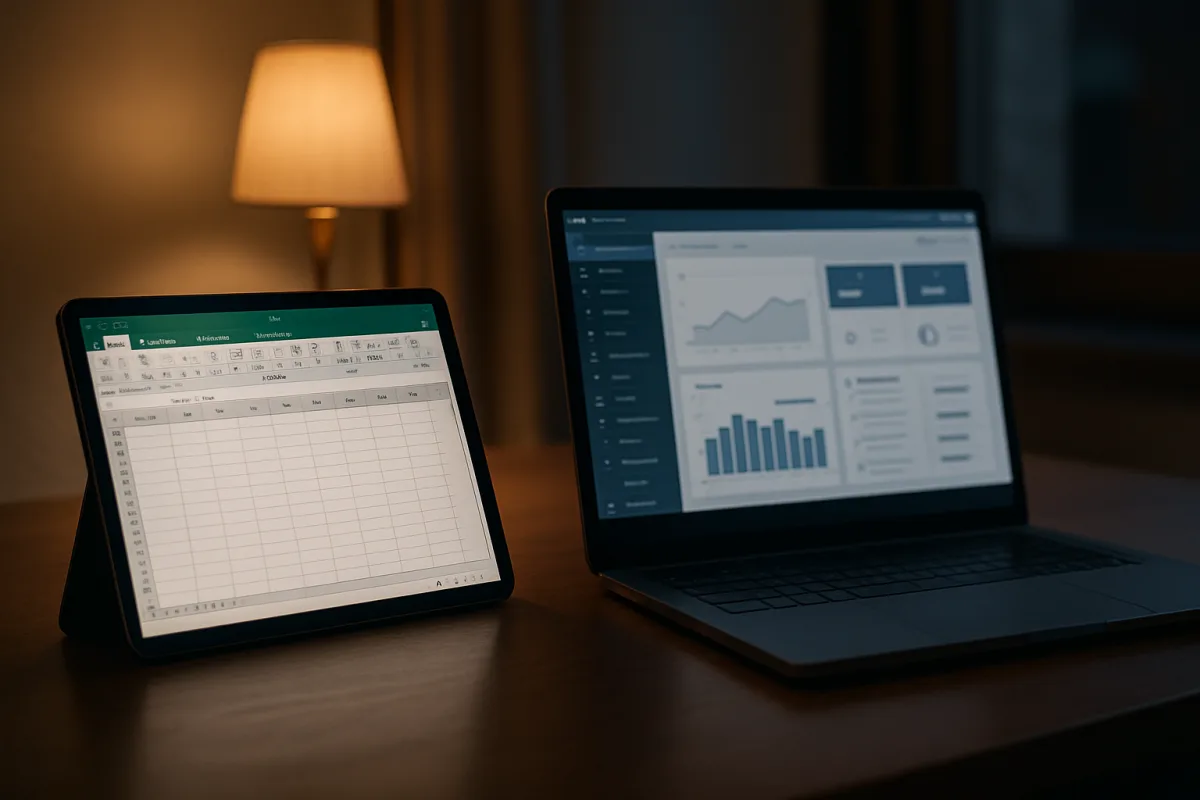
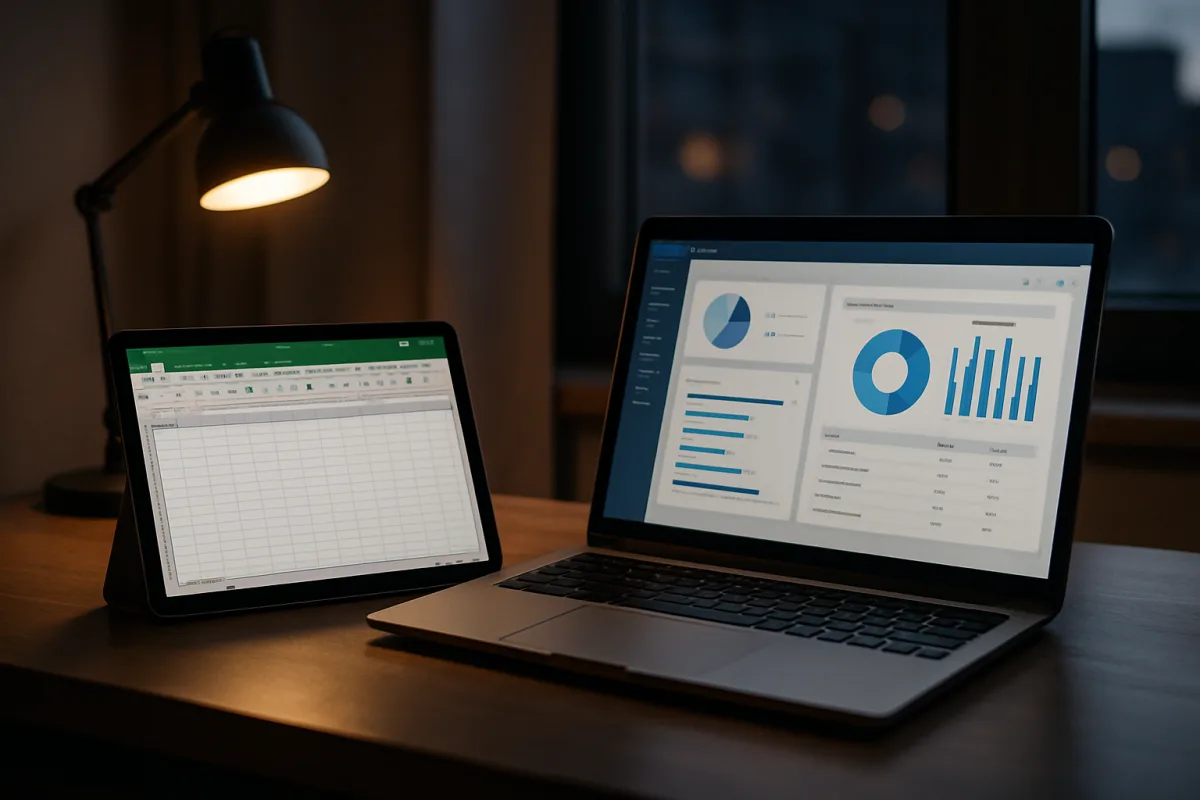
auto-commit for d4906b76-a8ba-492b-9cf0-a4e3382046fd

diff --git a/php-version/includes/header.php b/php-version/includes/header.php
@@ -99,14 +99,45 @@ echo $initialTheme !== '' ? ' data-bs-theme="' . esc($initialTheme) . '"' : '';
 ?>>
 <head>
   <meta charset="UTF-8">
+  <script>
+    /* Performance: defer ALL third-party tracking (GTM, gtag/GA4/Ads, Bing UET,
+       Clarity) until the FIRST user interaction or ~3s after load — whichever
+       comes first. Cuts Total Blocking Time / main-thread work on first paint
+       without losing analytics (real users interact; idle fallback covers the
+       rest). Trackers register a fn via window.__mvTrk.push(fn). */
+    (function(){
+      // Buffering stubs so conversion events (gtag('event','purchase'), uetq.push)
+      // fired before the real tags load are queued and flushed later — gtag is a
+      // dataLayer pusher and UET reads the pre-existing uetq array, so nothing is lost.
+      window.dataLayer = window.dataLayer || [];
+      window.gtag = window.gtag || function(){ window.dataLayer.push(arguments); };
+      window.uetq = window.uetq || [];
+
+      window.__mvTrk = window.__mvTrk || [];
+      var fired = false;
+      var evts = ['scroll','mousemove','mousedown','touchstart','keydown','pointerdown'];
+      function cleanup(){ evts.forEach(function(e){ window.removeEventListener(e, run, true); }); }
+      function run(){
+        if (fired) return; fired = true; cleanup();
+        var q = window.__mvTrk;
+        window.__mvTrk = { push: function(fn){ try { fn(); } catch(e){} } };
+        for (var i=0;i<q.length;i++){ try { q[i](); } catch(e){} }
+      }
+      evts.forEach(function(e){ window.addEventListener(e, run, {passive:true, capture:true}); });
+      window.addEventListener('load', function(){ setTimeout(run, 3000); });
+      window.__mvLoadTrackers = run;
+    })();
+  </script>
   <?php $gtmId = trim((string)setting_get('gtm_container_id', defined('GTM_CONTAINER_ID') ? GTM_CONTAINER_ID : '')); ?>
   <?php if ($gtmId !== ''): ?>
-  <!-- Google Tag Manager -->
-  <script>(function(w,d,s,l,i){w[l]=w[l]||[];w[l].push({'gtm.start':
+  <!-- Google Tag Manager (deferred until first interaction / idle) -->
+  <script>window.__mvTrk.push(function(){
+  (function(w,d,s,l,i){w[l]=w[l]||[];w[l].push({'gtm.start':
   new Date().getTime(),event:'gtm.js'});var f=d.getElementsByTagName(s)[0],
   j=d.createElement(s),dl=l!='dataLayer'?'&l='+l:'';j.async=true;j.src=
   'https://www.googletagmanager.com/gtm.js?id='+i+dl;f.parentNode.insertBefore(j,f);
-  })(window,document,'script','dataLayer','<?= esc($gtmId) ?>');</script>
+  })(window,document,'script','dataLayer','<?= esc($gtmId) ?>');
+  });</script>
   <!-- End Google Tag Manager -->
   <?php endif; ?>
   <script>
@@ -580,34 +611,37 @@ echo $initialTheme !== '' ? ' data-bs-theme="' . esc($initialTheme) . '"' : '';
       // multi-destination pattern.  Priority: Google tag → GA4 → Ads.
       $primaryGtagId = $tk_gtag !== '' ? $tk_gtag : ($tk_ga4 !== '' ? $tk_ga4 : $tk_gAds);
   ?>
-  <!-- Google tag (gtag.js) — covers Google tag (GT-) + GA4 + Google Ads -->
-  <script async src="https://www.googletagmanager.com/gtag/js?id=<?= esc($primaryGtagId) ?>"></script>
-  <script>
+  <!-- Google tag (gtag.js) — deferred; covers Google tag (GT-) + GA4 + Google Ads -->
+  <script>window.__mvTrk.push(function(){
+    var s=document.createElement('script');s.async=true;
+    s.src='https://www.googletagmanager.com/gtag/js?id=<?= esc($primaryGtagId) ?>';
+    document.head.appendChild(s);
     window.dataLayer = window.dataLayer || [];
     function gtag(){dataLayer.push(arguments);}
+    window.gtag = window.gtag || gtag;
     gtag('js', new Date());
     <?php if ($tk_gtag !== ''): ?>gtag('config', '<?= esc($tk_gtag) ?>');<?php endif; ?>
     <?php if ($tk_ga4 !== ''): ?>gtag('config', '<?= esc($tk_ga4) ?>');<?php endif; ?>
     <?php if ($tk_gAds !== ''): ?>gtag('config', '<?= esc($tk_gAds) ?>');<?php endif; ?>
-  </script>
+  });</script>
   <?php endif; ?>
 
   <?php if ($tk_uet !== ''): ?>
-  <!-- Bing Universal Event Tracking (UET) -->
-  <script>
+  <!-- Bing Universal Event Tracking (UET) — deferred -->
+  <script>window.__mvTrk.push(function(){
     (function(w,d,t,r,u){var f,n,i;w[u]=w[u]||[],f=function(){var o={ti:"<?= esc($tk_uet) ?>",enableAutoSpaTracking:true};o.q=w[u],w[u]=new UET(o),w[u].push("pageLoad")},n=d.createElement(t),n.src=r,n.async=1,n.onload=n.onreadystatechange=function(){var s=this.readyState;s&&s!=="loaded"&&s!=="complete"||(f(),n.onload=n.onreadystatechange=null)},i=d.getElementsByTagName(t)[0],i.parentNode.insertBefore(n,i)})(window,document,"script","//bat.bing.com/bat.js","uetq");
-  </script>
+  });</script>
   <?php endif; ?>
 
   <?php if ($tk_clarity !== ''): ?>
-  <!-- Microsoft Clarity (free heatmaps + session replay; signals quality to Bing Ads) -->
-  <script type="text/javascript">
+  <!-- Microsoft Clarity — deferred (heatmaps + session replay; signals quality to Bing Ads) -->
+  <script type="text/javascript">window.__mvTrk.push(function(){
     (function(c,l,a,r,i,t,y){
         c[a]=c[a]||function(){(c[a].q=c[a].q||[]).push(arguments)};
         t=l.createElement(r);t.async=1;t.src="https://www.clarity.ms/tag/"+i;
         y=l.getElementsByTagName(r)[0];y.parentNode.insertBefore(t,y);
     })(window, document, "clarity", "script", "<?= esc($tk_clarity) ?>");
-  </script>
+  });</script>
   <?php endif; ?>
 
 </head>

diff --git a/memory/PRD.md b/memory/PRD.md
@@ -1111,3 +1111,10 @@ The store already had extensive, valid JSON-LD (Organization, LocalBusiness, Web
 - Fix: added '@id' to the single complete Product in product.php (site_url()/product.php?slug=...#product); changed Article.about in seo-content.php to a pure reference ['@id'=>$url.'#product'] instead of duplicating a partial Product+Offer.
 - Verified: product pages now render exactly ONE Product entity (with image+offers+description+sku); Article.about is an @id ref. Product image file resolves (200). Applies site-wide to all products.
 - Deploy to maventechsoftware.com + Validate Fix in GSC to clear.
+
+## 2026-06 — Desktop PageSpeed: defer third-party tracking (TBT 1,140ms fix)
+- Desktop perf 64; dominated by TBT 1,140ms, main-thread 3.6s, unused JS 285KiB — all from GTM + gtag(GA4/Ads) + Bing UET + Clarity executing on first paint. FCP/LCP/CLS already green.
+- includes/header.php: added a tiny bootstrap (window.__mvTrk queue) that runs all registered tracker inits on FIRST user interaction (scroll/mousemove/mousedown/touchstart/keydown/pointerdown, capture+passive) OR load+3s idle fallback. Converted all 4 tracker snippets to window.__mvTrk.push(fn) — gtag.js now injected dynamically inside the queued fn (no static <script async src>).
+- Buffering stubs added early: window.dataLayer, window.gtag (dataLayer pusher), window.uetq=[] — so conversion events fired before tags load (product view_item, begin_checkout, and the order-success PURCHASE/conversion + uetq.push) are queued and flushed when real tags load. No conversions lost (worst case: page abandoned <3s with zero interaction).
+- Verified (Playwright): BEFORE interaction = 0 tracker requests; AFTER interaction = clarity.ms + googletagmanager.com load. Bing only loads when its ID is set.
+- Did NOT touch CSS loading (CLS=0, FCP/LCP 0.9s) to avoid reintroducing the prior CLS regression. Deploy to clear in PSI/CrUX.